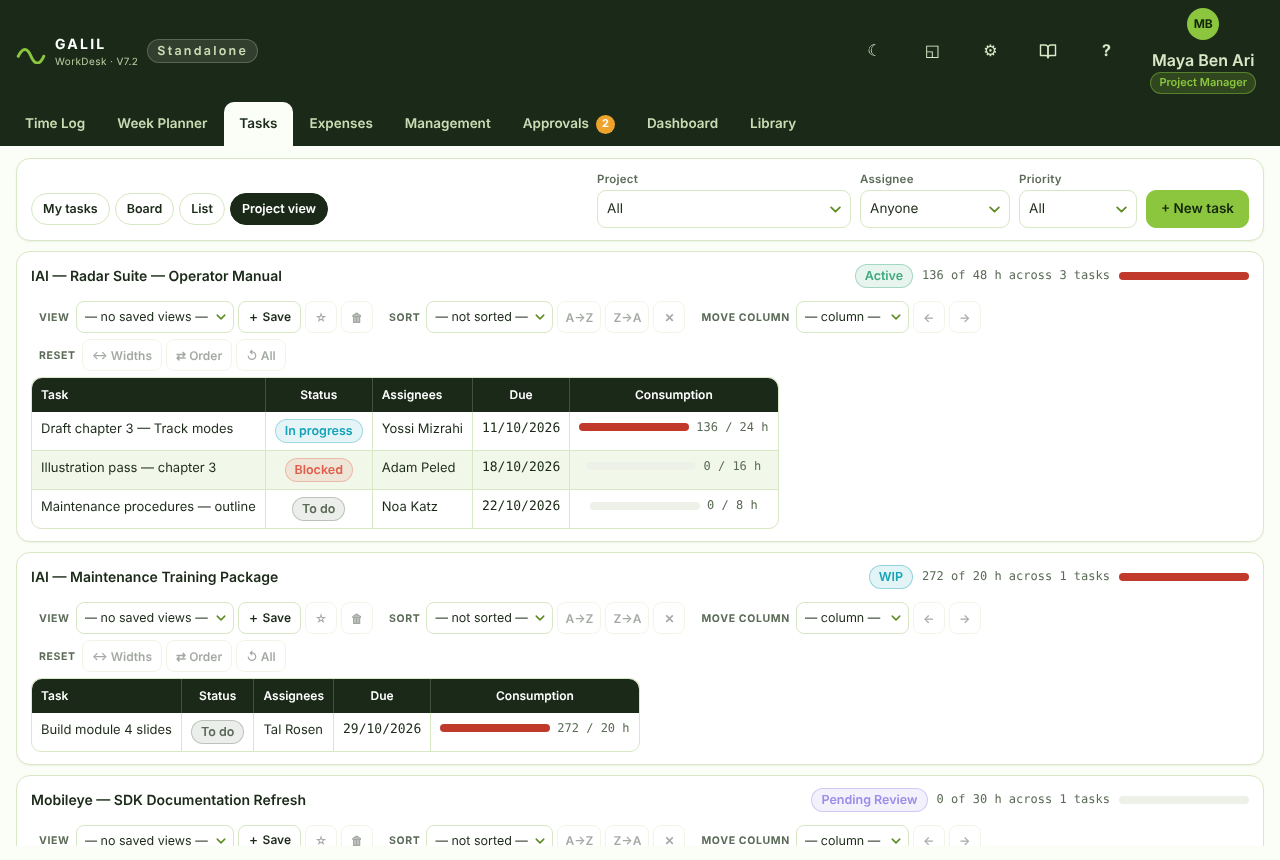
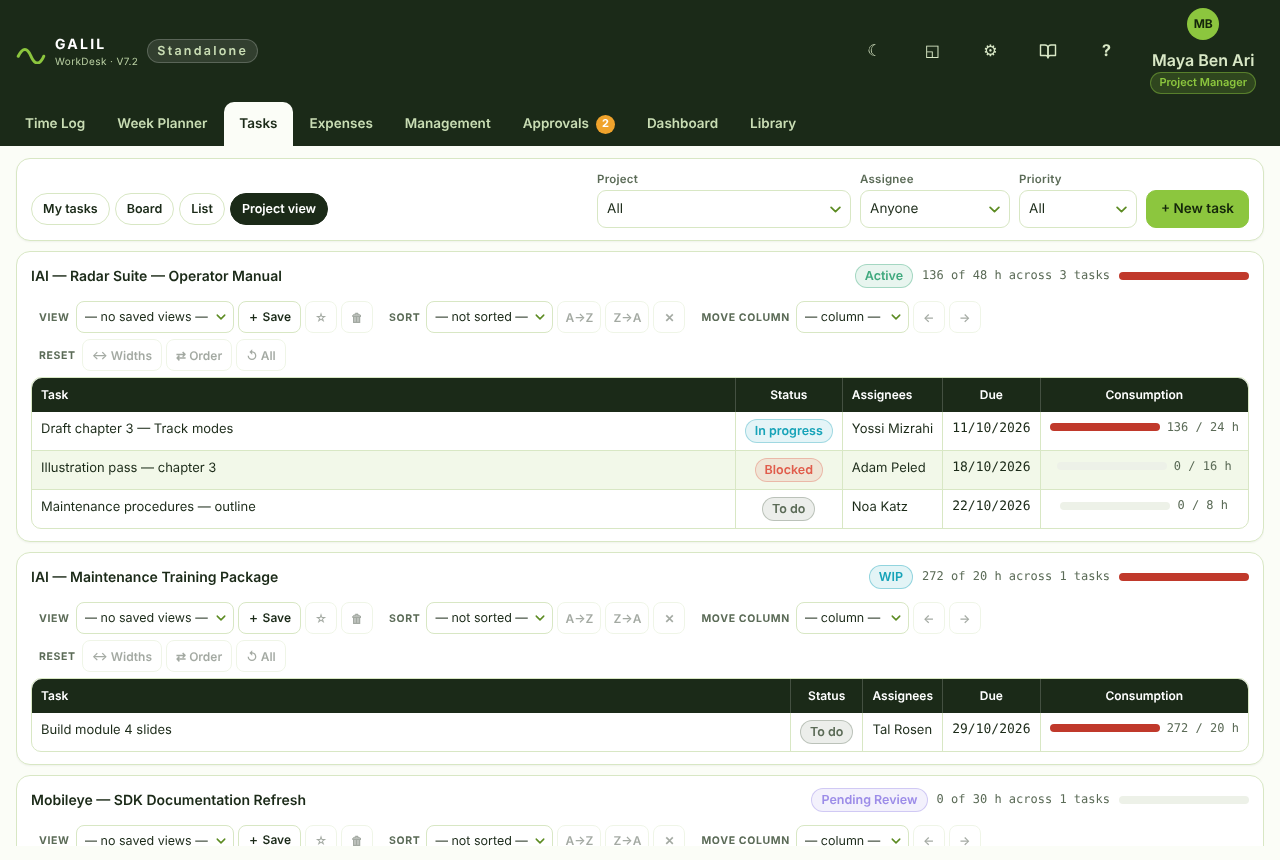
Tables fill their panel again; the spare width goes to one text column
Every table is as wide as its panel, so tables line up across tabs.
Columns keep the width their content needs and the leftover space is
given to one text column per table (Description, Task, Title, Project,
Name, Capability, Action), recalculated on resize. Team members drops
its fixed percentage widths. Handbook screenshots retaken.

Claude-Session: https://claude.ai/code/session_012caJLcpVZg4uhZvZ6w3TBn

diff --git a/site/app/index.html b/site/app/index.html
@@ -19229,7 +19229,7 @@ function STable(p) {
   var ds = useState(null), dragCol = ds[0], setDragCol = ds[1];
   var os = useState(null), overCol = os[0], setOverCol = os[1];
   var mc = useState(""), moveSel = mc[0], setMoveSel = mc[1];
-  var headRef = useRef(null), busy = useRef(0);
+  var headRef = useRef(null), busy = useRef(0), tblRef = useRef(null);
 
   useEffect(function () {
     var f = function () { force(function (n) { return n + 1; }); };
@@ -19384,7 +19384,37 @@ function STable(p) {
     tStyle.width = order.reduce(function (a, cid) { return a + (widths[cid] || 120); }, 0);
     tStyle.minWidth = 0;
   }
-  var table = h("table", { className: (p.className || "tbl") + (sized ? " sized" : ""), style: tStyle },
+  /* every table fills its panel. Columns keep the width their content needs and
+     the leftover space goes to one text column (p.grow, else the first text column),
+     so numbers and badges never float in wide empty cells. */
+  var growCol = (p.grow && byCid[p.grow] && byCid[p.grow].id) || (cols.filter(function (c) { return c.label && !c.mid; })[0] || {}).id;
+  var growAt = growCol ? order.indexOf(growCol) : -1;
+  function fill() {
+    var t = tblRef.current;
+    if (!t) return;
+    var ths = headRef.current ? headRef.current.children : [];
+    for (var i = 0; i < ths.length; i++) if (ths[i].dataset.fill) { ths[i].style.width = ""; delete ths[i].dataset.fill; }
+    t.style.width = "";
+    if (sized || growAt < 0 || !ths[growAt]) return;
+    var box = t.parentElement, cs = window.getComputedStyle(box);
+    var avail = box.clientWidth - (parseFloat(cs.paddingLeft) || 0) - (parseFloat(cs.paddingRight) || 0);
+    var natural = t.offsetWidth, slack = Math.floor(avail - natural);
+    if (slack <= 1) return;
+    var g = ths[growAt];
+    g.style.width = (g.getBoundingClientRect().width + slack) + "px";
+    g.dataset.fill = "1";
+    t.style.width = "100%";
+  }
+  React.useLayoutEffect(fill);
+  useEffect(function () {
+    var on = function () { fill(); };
+    window.addEventListener("resize", on);
+    var ro = window.ResizeObserver && tblRef.current ? new ResizeObserver(on) : null;
+    if (ro) ro.observe(tblRef.current.parentElement);
+    return function () { window.removeEventListener("resize", on); if (ro) ro.disconnect(); };
+  }, []);
+
+  var table = h("table", { ref: tblRef, className: (p.className || "tbl") + (sized ? " sized" : ""), style: tStyle },
     h("thead", thead ? thead.props : null, head),
     tbody ? React.cloneElement(tbody, null, bodyRows) : null,
     rest);
@@ -20392,7 +20422,7 @@ function TimeLogTab(p) {
     h("div", { className: "panel scroll" },
       rows.length === 0
         ? h("div", { className: "empty" }, "No entries for ", MONTHS_FULL[m], " ", y, " with these filters.")
-        : h(STable, { id: "time-log", center: ["Type", "Time", "Hours", "Project status"], className: "tbl mid" },
+        : h(STable, { id: "time-log", grow: "Description", center: ["Type", "Time", "Hours", "Project status"], className: "tbl mid" },
             h("thead", null, h("tr", null,
               ["Date", "Employee", "Type", "Time", "Hours", "Client", "Project", "Work order", "Task", "Project status", "Description", ""].map(function (c, i) {
                 return h("th", { key: i, className: c === "Hours" ? "hrs" : "" }, c);
@@ -20674,7 +20704,7 @@ function TasksTab(p) {
       : null,
 
     view === "list" ? h("div", { className: "panel scroll" },
-      h(STable, { id: "tasks-list", center: ["Status", "Priority", "Due", "Hours"], className: "tbl" },
+      h(STable, { id: "tasks-list", grow: "Task", center: ["Status", "Priority", "Due", "Hours"], className: "tbl" },
         h("thead", null, h("tr", null, ["Task", "Project", "Work order", "Status", "Priority", "Assignees", "Due", "Hours", ""].map(function (c, i) { return h("th", { key: i, className: c === "Hours" ? "num" : "" }, c); }))),
         h("tbody", null, list.sort(function (a, b) { return String(a.dueDate || "9").localeCompare(String(b.dueDate || "9")); }).map(function (t) {
           var cons = taskConsumed(db, t.id);
@@ -20704,7 +20734,7 @@ function TasksTab(p) {
             psChip(pr.status),
             h("span", { className: "cap mono" }, num(use), " of ", num(alw), " h across ", tks.length, " tasks"),
             h(Bar, { used: use, total: alw, style: { width: 130 } })),
-          h(STable, { id: "tasks-project", center: ["Status", "Due", "Consumption"], className: "tbl" },
+          h(STable, { id: "tasks-project", grow: "Task", center: ["Status", "Due", "Consumption"], className: "tbl" },
             h("thead", null, h("tr", null, ["Task", "Status", "Assignees", "Due", "Consumption"].map(function (c, i) { return h("th", { key: i }, c); }))),
             h("tbody", null, tks.map(function (t) {
               var cons = taskConsumed(db, t.id);
@@ -21499,7 +21529,7 @@ function ExpensesTab(p) {
 
     h("div", { className: "panel scroll" },
       rows.length === 0 ? h("div", { className: "empty" }, "No expenses this month.")
-        : h(STable, { id: "expenses", center: ["Value", "Evidence", "Reimbursement"], className: "tbl" },
+        : h(STable, { id: "expenses", grow: "Description", center: ["Value", "Evidence", "Reimbursement"], className: "tbl" },
             h("thead", null, h("tr", null, ["Date", "Employee", "Type", "Value", "Client / project", "Work order", "Evidence", "Reimbursement", "Description", ""].map(function (c, i) { return h("th", { key: i, className: c === "Value" ? "num" : "" }, c); }))),
             h("tbody", null, rows.map(function (x) {
               var own = x.userId === user.id;
@@ -21679,7 +21709,7 @@ function ManagementTab(p) {
       })) : null,
 
     tab === "wos" ? h("div", { className: "panel scroll" },
-      h(STable, { id: "mgmt-wos", center: ["Status", "Dates", "Budget", "Consumed"], className: "tbl" },
+      h(STable, { id: "mgmt-wos", grow: "Title", center: ["Status", "Dates", "Budget", "Consumed"], className: "tbl" },
         h("thead", null, h("tr", null, ["Code", "Title", "Client / project", "Status", "Contract ref", "Dates", "Budget", "Consumed", ""].map(function (c, i) { return h("th", { key: i, className: ["Budget", "Consumed"].indexOf(c) >= 0 ? "num" : "" }, c); }))),
         h("tbody", null, wos.map(function (w) {
           var pr = byId(db.projects, w.projectId) || {};
@@ -21706,7 +21736,7 @@ function ManagementTab(p) {
       onDelete: function (f) { p.mutate(function (d) { d.budgets = d.budgets.filter(function (x) { return x.id !== f.id; }); audit(d, user.id, "Budget deleted", "budgets", f.id, f, null); }); setEditing(null); } }) : null,
     woEdit ? h(WOEditor, { db: db, value: woEdit, nextCode: nextCode, onSave: saveWO, onClose: function () { setWoEdit(null); } }) : null,
     history ? h(Modal, { title: "Budget change history", size: "md", onClose: function () { setHistory(null); } },
-      h(STable, { id: "budget-history", className: "tbl" },
+      h(STable, { id: "budget-history", grow: "Field", className: "tbl" },
         h("thead", null, h("tr", null, ["When", "Actor", "Field", "From", "To"].map(function (c, i) { return h("th", { key: i }, c); }))),
         h("tbody", null, (history.history || []).slice().reverse().map(function (x, i) {
           return h("tr", { key: i },
@@ -22113,7 +22143,7 @@ function ListEditor(pp) {
           addItem(o); setDraft({}); toast("Added.", "ok");
         } }, "+ Add"))) : null,
     h("div", { style: { overflowX: "auto" } },
-      h(STable, { id: "mgmt-" + kind, center: LIST_CENTER_COLS, className: "tbl mid" },
+      h(STable, { id: "mgmt-" + kind, grow: pp.cols[0], center: LIST_CENTER_COLS, className: "tbl mid" },
         h("thead", null, h("tr", null, pp.cols.map(function (c, i) { return h("th", { key: i }, c); }), h("th", null, "Used by"), pp.canEdit ? h("th", null, "") : null)),
         h("tbody", null, (db[kind] || []).map(function (o) {
           return h("tr", { key: o.id },
@@ -22508,7 +22538,7 @@ function TeamsPanel(p) {
 
     myRequests.length ? h("div", { className: "panel pad col", style: { gap: 6 } },
       h("b", null, "Team requests"),
-      h("div", { style: { overflowX: "auto" } }, h(STable, { id: "team-requests", center: ["Type", "Status"], className: "tbl" },
+      h("div", { style: { overflowX: "auto" } }, h(STable, { id: "team-requests", grow: "For", center: ["Type", "Status"], className: "tbl" },
         h("thead", null, h("tr", null, ["Type", "Person", "From → to", "For", "Asked by", "Decided by", "Status"].map(function (c) { return h("th", { key: c }, c); }))),
         h("tbody", null, myRequests.map(function (r) {
           return h("tr", { key: r.id },
@@ -22550,8 +22580,8 @@ function TeamManage(p) {
       h("span", { className: "cap" }, "Lead ", h("b", null, t.leadUserId ? userName(db, t.leadUserId) : "—")),
       h("div", { className: "grow" }),
       h(Btn, { sm: true, onClick: p.onRequest }, "Request someone from another team")),
-    members.length ? h("div", { style: { overflowX: "auto" } }, h(STable, { id: "team-members", center: ["Role"], className: "tbl", style: { tableLayout: "fixed", minWidth: 640 } },
-      h("thead", null, h("tr", null, [["Member", "34%"], ["Role", "20%"], ["Direct manager", "32%"], ["", "14%"]].map(function (c, i) { return h("th", { key: i, style: { width: c[1] } }, c[0]); }))),
+    members.length ? h("div", { style: { overflowX: "auto" } }, h(STable, { id: "team-members", grow: "Member", center: ["Role"], className: "tbl" },
+      h("thead", null, h("tr", null, ["Member", "Role", "Direct manager", ""].map(function (c, i) { return h("th", { key: i }, c); }))),
       h("tbody", null, members.map(function (u) {
         var self = u.id === user.id && !all;
         return h("tr", { key: u.id },
@@ -22672,7 +22702,7 @@ function MgmtPanel(p) {
           toast("Assignment created.", "ok");
         } }, "+ Assign"))) : null,
     h("div", { style: { overflowX: "auto" } },
-      h(STable, { id: "mgmt-assignments", center: ["Allowance", "Consumed", "In approval", "Remaining"], className: "tbl mid" },
+      h(STable, { id: "mgmt-assignments", grow: "Project", center: ["Allowance", "Consumed", "In approval", "Remaining"], className: "tbl mid" },
         h("thead", null, h("tr", null, ["Person", "Project", "Work order", "Allowance", "Consumed", "In approval", "Remaining", ""].map(function (c, i) { return h("th", { key: i, className: ["Allowance", "Consumed", "In approval"].indexOf(c) >= 0 ? "num" : "" }, c); }))),
         h("tbody", null, db.assignments.map(function (a) {
           var used = consumedOn(db, a.userId, a), pend = pendingOn(db, a.userId, a);
@@ -22757,7 +22787,7 @@ function MgmtPanel(p) {
       var pendC = db.clients.filter(function (c) { return !c.isVerified; });
       var pendP = db.projects.filter(function (x) { return !x.isVerified; });
       if (!pendC.length && !pendP.length) return h("div", { className: "empty panel" }, "Nothing to verify.");
-      return h("div", { style: { overflowX: "auto" } }, h(STable, { id: "mgmt-verify", center: ["Kind"], className: "tbl mid" },
+      return h("div", { style: { overflowX: "auto" } }, h(STable, { id: "mgmt-verify", grow: "Name", center: ["Kind"], className: "tbl mid" },
         h("thead", null, h("tr", null, ["Kind", "Name", "Context", ""].map(function (c, i) { return h("th", { key: i }, c); }))),
         h("tbody", null,
           pendC.map(function (c) {
@@ -22843,7 +22873,7 @@ function AdminModal(p) {
         tab === "roles" ? h("div", { className: "col", style: { gap: 10 } },
           h("div", { className: "cap" }, "Y permitted · O own records only · T own team only · P own projects only · – denied. In the cloud build every rule below is enforced by PostgreSQL Row Level Security, not by the browser."),
           h("div", { style: { overflow: "auto" } },
-            h(STable, { id: "admin-roles", center: ROLE_ORDER, className: "tbl" },
+            h(STable, { id: "admin-roles", grow: "Capability", center: ROLE_ORDER, className: "tbl" },
               h("thead", null, h("tr", null, h("th", null, "Capability"), ROLE_ORDER.map(function (r) { return h("th", { key: r, style: { textAlign: "center" } }, r); }))),
               h("tbody", null, Object.keys(PERM).map(function (cap) {
                 return h("tr", { key: cap },
@@ -22930,7 +22960,7 @@ function AdminModal(p) {
 
         tab === "audit" ? h("div", { className: "col", style: { gap: 8 } },
           h("div", { className: "cap" }, "Append-only. Every sign-in, sign-out, role change and approval action is recorded with actor, timestamp and IP."),
-          h("div", { style: { overflowX: "auto" } }, h(STable, { id: "admin-audit", center: ["IP"], className: "tbl" },
+          h("div", { style: { overflowX: "auto" } }, h(STable, { id: "admin-audit", grow: "Action", center: ["IP"], className: "tbl" },
             h("thead", null, h("tr", null, ["When", "Actor", "Action", "Entity", "IP"].map(function (c, i) { return h("th", { key: i }, c); }))),
             h("tbody", null, db.audit.slice(0, 400).map(function (a) {
               return h("tr", { key: a.id },
@@ -23578,7 +23608,7 @@ function MyWork(p) {
     h("div", { className: "cap", style: { textAlign: "center" } }, "Yellow time on an unassigned project is accepted, but routed to approval. A manager grants assignments under Management \u2192 Assignments & allowances."));
   return h(Modal, { title: "My assignments and allowances", size: "lg", onClose: p.onClose },
     h("div", { style: { overflowX: "auto" } },
-    h(STable, { id: "my-assignments", center: ["Allowance", "Consumed", "In approval", "Remaining"], className: "tbl mid" },
+    h(STable, { id: "my-assignments", grow: "Project", center: ["Allowance", "Consumed", "In approval", "Remaining"], className: "tbl mid" },
       h("thead", null, h("tr", null, ["Project", "Work order", "Allowance", "Consumed", "In approval", "Remaining", ""].map(function (c, i) { return h("th", { key: i, className: i > 1 && i < 5 ? "num" : "" }, c); }))),
       h("tbody", null, mine.map(function (a) {
         var used = consumedOn(db, user.id, a), pend = pendingOn(db, user.id, a);
